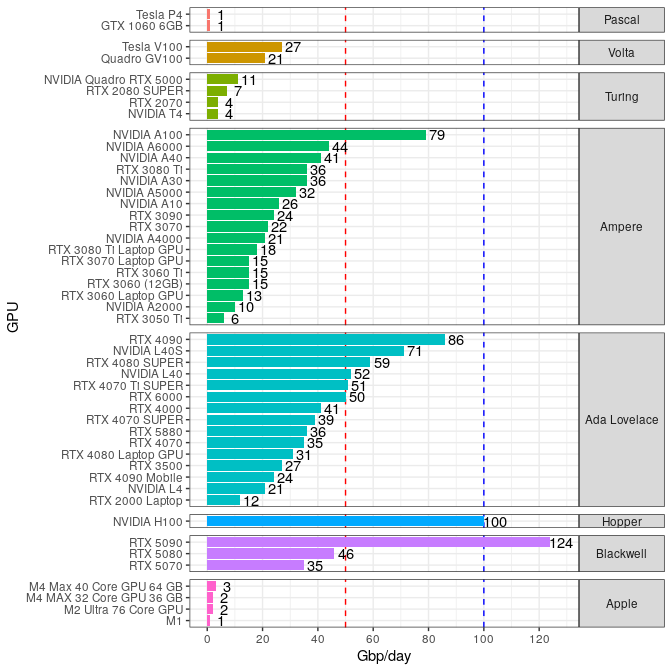
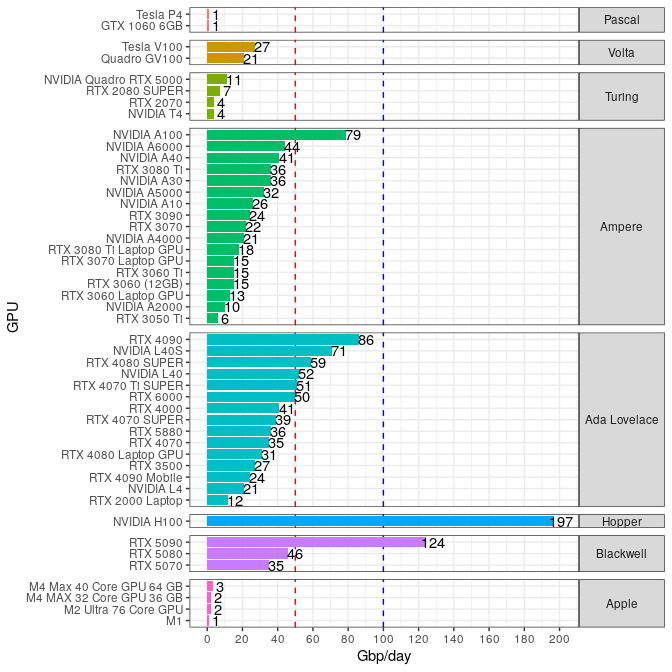
hopper is back

diff --git a/README.md b/README.md
@@ -1,7 +1,7 @@
 README
 ================
 Rasmus Kirkegaard
-30 July, 2025
+11 August, 2025
 
 ## Aim
 
